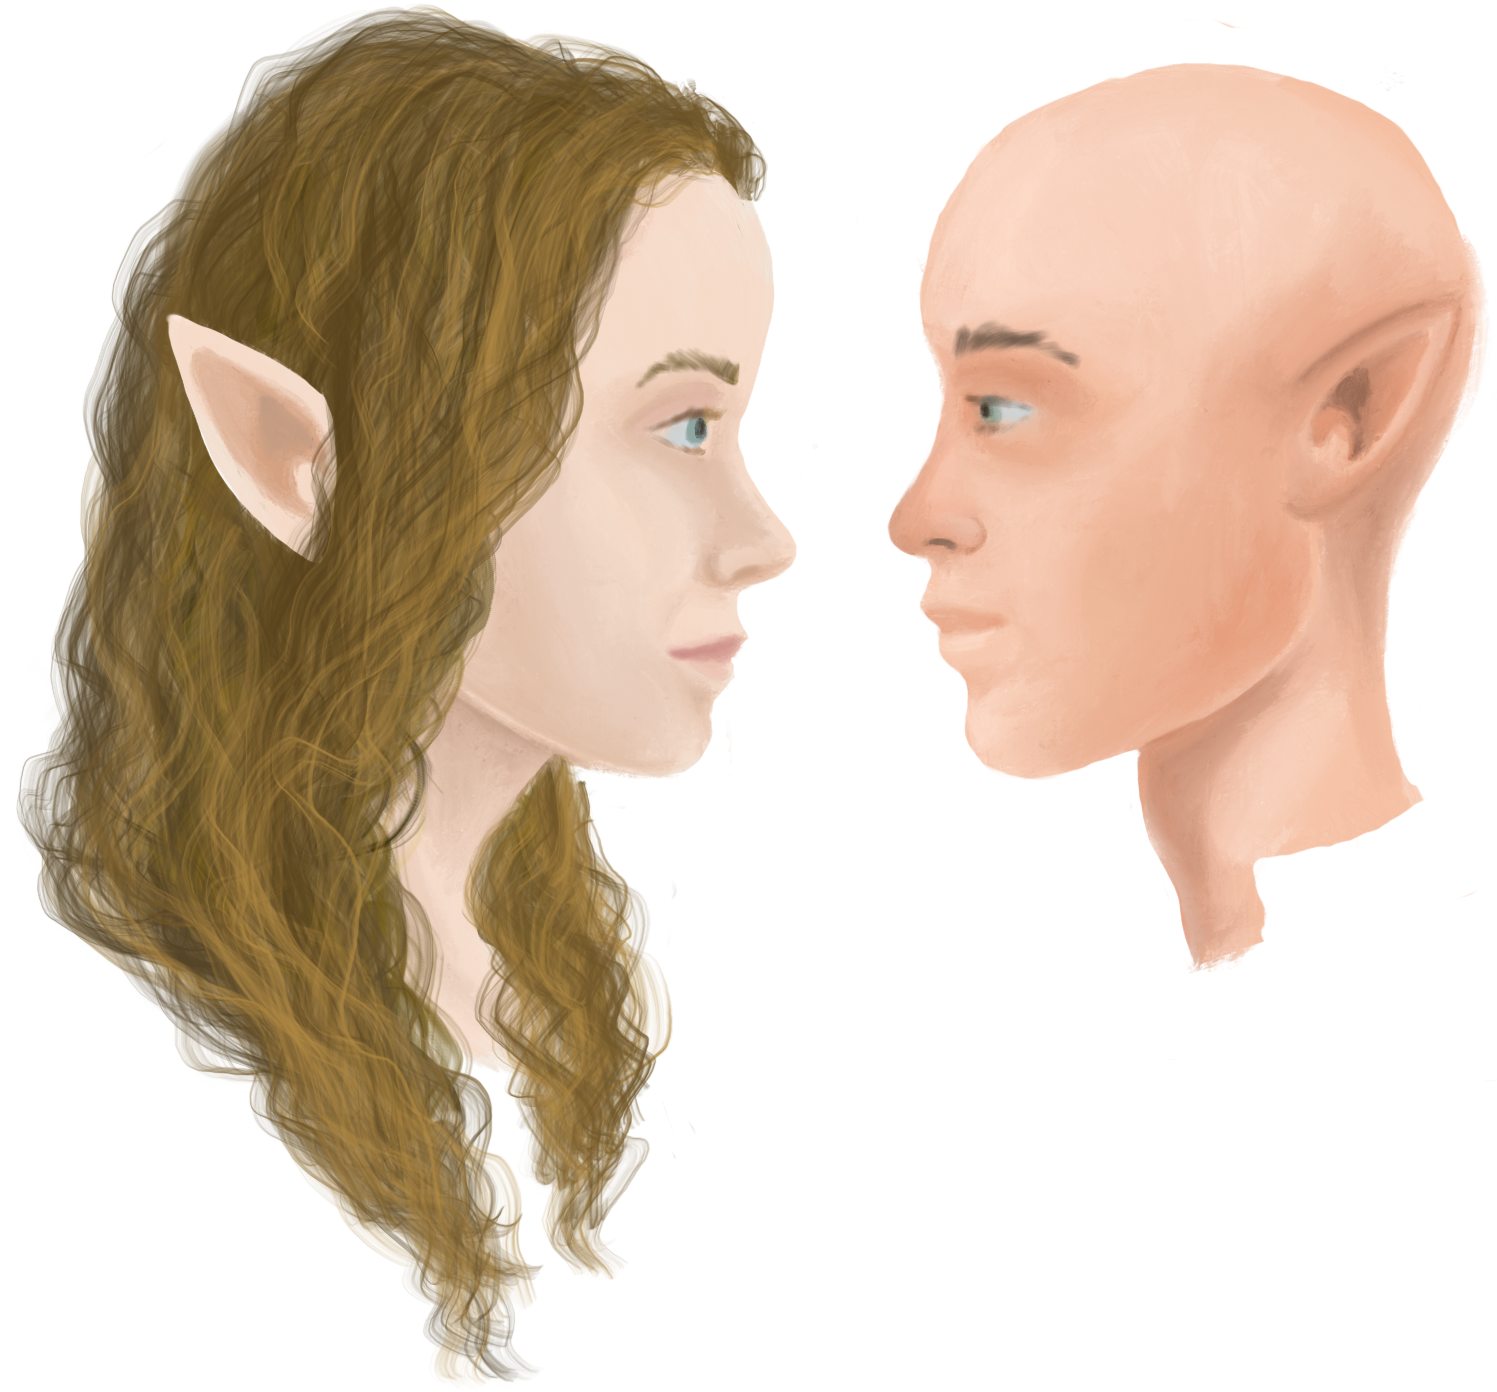
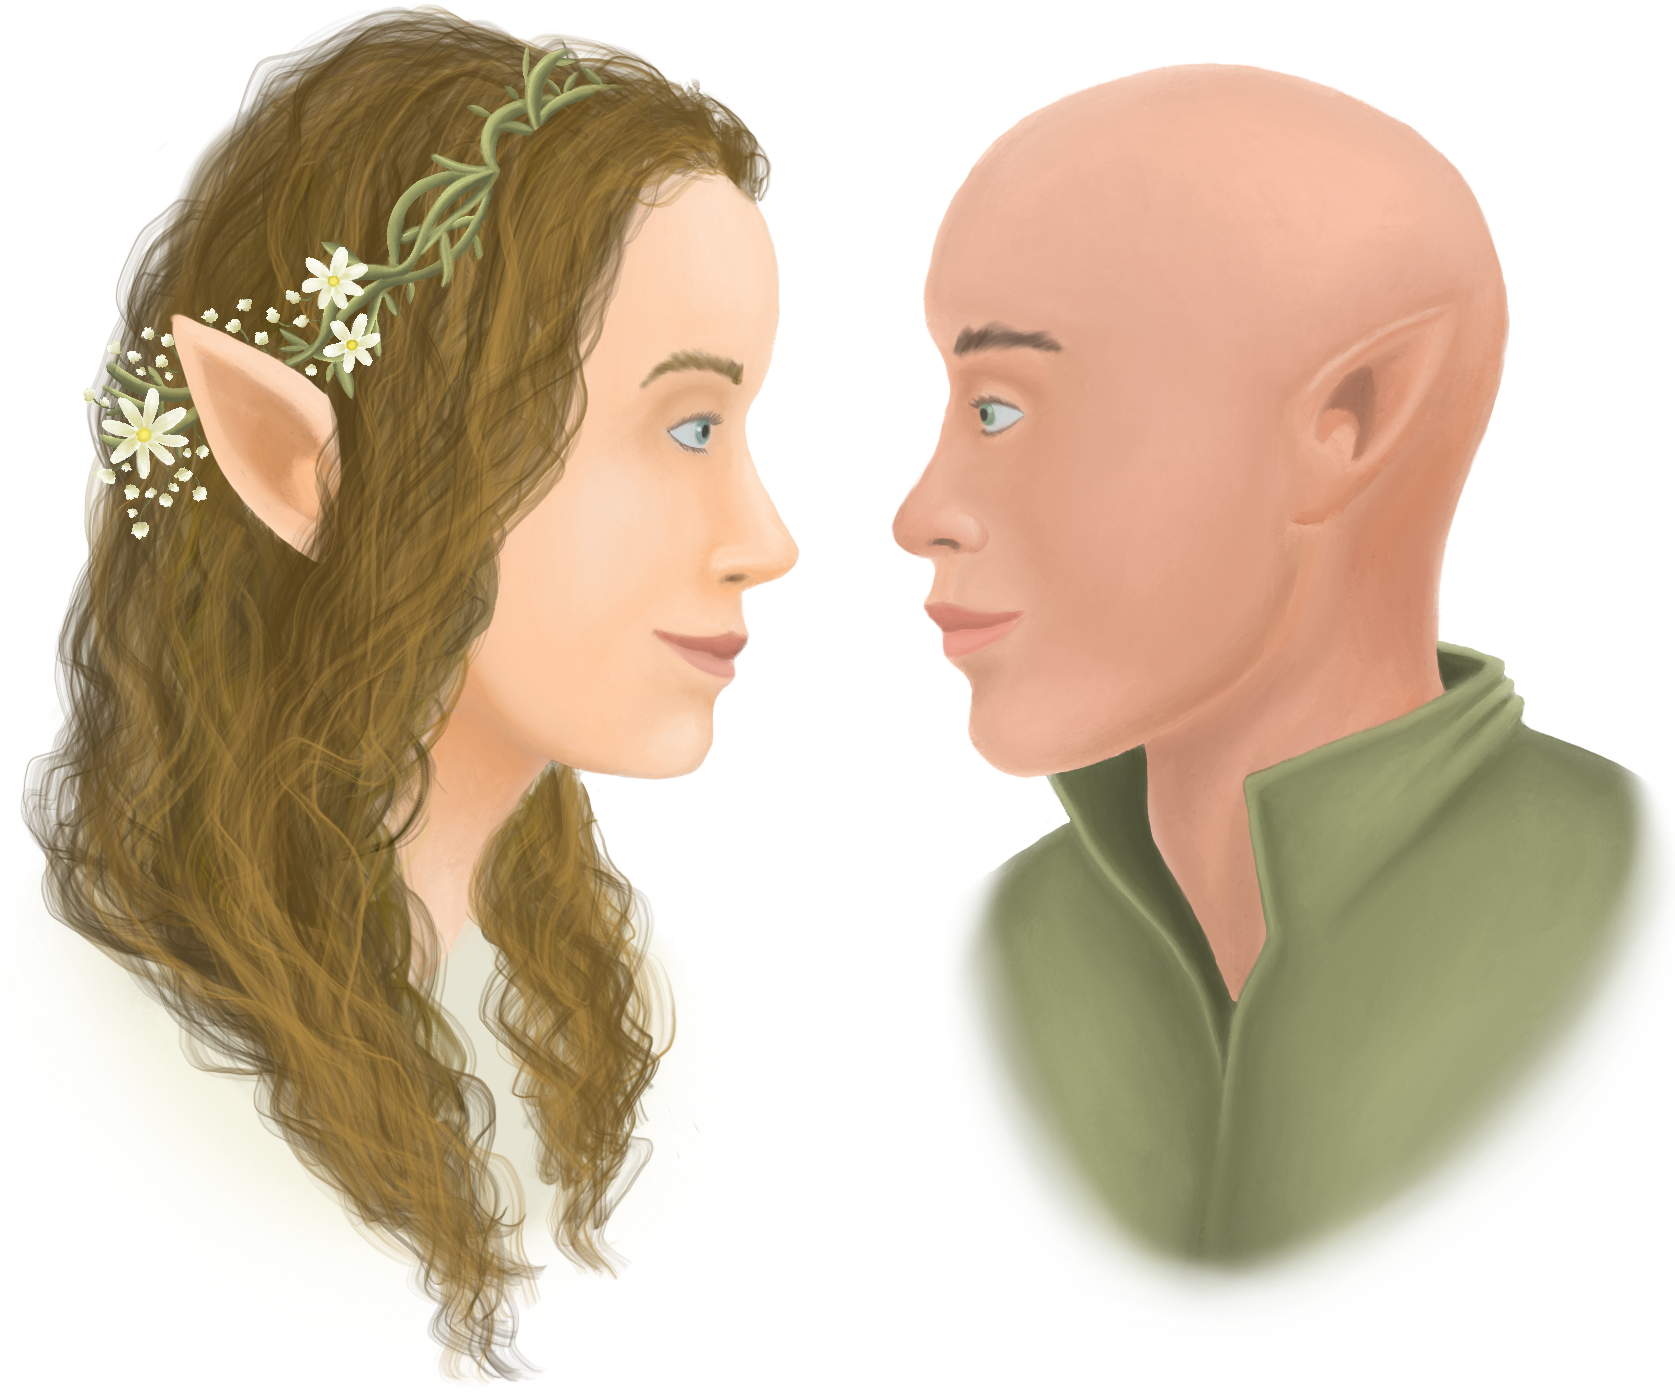
Replace image and fix spacings

diff --git a/our-story.html b/our-story.html
@@ -6,6 +6,9 @@
   <title>Fernanda & Samuel</title>
   <link rel="stylesheet" href="styles.css" />
   <link href="https://fonts.googleapis.com/css2?family=Crimson+Pro:wght@400;700&display=swap" rel="stylesheet">
+  <link rel="preconnect" href="https://fonts.googleapis.com">
+  <link rel="preconnect" href="https://fonts.gstatic.com" crossorigin>
+  <link href="https://fonts.googleapis.com/css2?family=Lavishly+Yours&display=swap" rel="stylesheet"> 
 </head>
 <body>
   <header>
@@ -35,18 +38,18 @@
   <main>
     <section>
       <img src="images/us.png" alt="Nós" class="main-image" />
-      <h2 style="text-align: center; font-family: ElvenCommonSpeak;">Prefiro compartilhar uma unica vida ao seu lado do que enfrentar todas as eras deste mundo sozinho</h2>
+      <h2 style="text-align: center; font-family: Lavishly Yours; font-size: 2rem; line-height: 1; margin-top: 2rem;">"Prefiro compartilhar uma única vida ao seu lado do que enfrentar todas as eras deste mundo sozinho."</h2>
     </section>
     <section>
-      <p style="text-align: center; max-width: 800px; margin: 0 auto;" class="starting-text">
-        Nos conhecemos nas aulas de alemão da faculdade, e desde o início sabíamos que algo especial estava acontecendo. De momentos simples a aventuras incríveis, aqui estão os marcos que definiram a nossa história.
+      <p style="text-align: center; max-width: 800px; margin: 2em auto;" class="starting-text">
+        Nos conhecemos nas aulas de alemão da faculdade, e desde o início sabíamos que algo especial estava acontecendo. De momentos simples a aventuras incríveis, aqui estão alguns dos marcos que definiram a nossa história.
       </p>
       <div class="milestone-timeline">
         <div class="milestone">
           <img src="images/ccbb.jpg" alt="Primeiro Encontro" class="milestone-image">
           <div class="milestone-content">
             <h3>Primeiro Encontro</h3>
-            <p class="starting-text">Nosso primeiro encontro foi no CCBB, mesmo que a Fernanda não tenha reconhecido como um encontro, na época.</p>
+            <p class="milestone-text">Nosso primeiro encontro foi no CCBB, mesmo que a Fernanda não tenha reconhecido como um encontro na época.</p>
             <p><strong>Data:</strong> 20 de Maio de 2017</p>
           </div>
         </div>
@@ -54,7 +57,7 @@
           <img src="images/namoro.jpg" alt="Pedido de Namoro" class="milestone-image">
           <div class="milestone-content">
             <h3>Pedido de Namoro</h3>
-            <p class="starting-text">Começamos a namorar em São Paulo, onde, coincidentemente, estávamos viajando por motivos diferentes.</p>
+            <p class="milestone-text">Começamos a namorar em São Paulo, onde, coincidentemente, estávamos viajando por motivos diferentes.</p>
             <p><strong>Data:</strong> 20 de Outubro de 2017</p>
           </div>
         </div>
@@ -62,7 +65,7 @@
           <img src="images/buenos-aires.jpg" alt="Primeira Viagem" class="milestone-image">
           <div class="milestone-content">
             <h3>Primeira Viagem</h3>
-            <p class="starting-text">Nossa primeira viagem foi para Buenos Aires, onde vivemos momentos inesquecíveis que fortaleceram ainda mais nossa conexão.</p>
+            <p class="milestone-text">Nossa primeira viagem foi para Buenos Aires, onde vivemos momentos inesquecíveis que fortaleceram ainda mais nossa conexão.</p>
             <p><strong>Data:</strong> Abril de 2019</p>
           </div>
         </div>
@@ -70,7 +73,7 @@
           <img src="images/floripa.png" alt="Florianópolis" class="milestone-image">
           <div class="milestone-content">
             <h3>Morando Juntos por 1 Mês</h3>
-            <p class="starting-text">Decidimos passar 1 mês em Florianópolis, nossa primeira experiência de longa duração juntos. Não precisamos dizer que deu certo, né?</p>
+            <p class="milestone-text">Decidimos passar 1 mês em Florianópolis, nossa primeira experiência de longa duração juntos. Não precisamos dizer que deu certo, né?</p>
             <p><strong>Data:</strong> Outubro de 2021</p>
           </div>
         </div>
@@ -78,7 +81,7 @@
           <img src="images/lofts.png" alt="Lofts" class="milestone-image">
           <div class="milestone-content">
             <h3>Mudança definitiva</h3>
-            <p class="starting-text">Saímos do ninho de nossos pais para trilhar nossa própria jornada juntos, todos os dias, sob sol ou chuva.</p>
+            <p class="milestone-text">Saímos do ninho de nossos pais para trilhar nossa própria jornada juntos, todos os dias, sob sol ou chuva.</p>
             <p><strong>Data:</strong> Janeiro de 2023</p>
           </div>
         </div>
@@ -86,7 +89,7 @@
           <img src="images/noivado.jpg" alt="Pedido de Casamento" class="milestone-image">
           <div class="milestone-content">
             <h3>Pedido de Casamento</h3>
-            <p class="starting-text">O momento mágico em que decidimos passar o resto de nossas vidas juntos. Exatamente 7 anos após começarmos a namorar.</p>
+            <p class="milestone-text">O momento mágico em que decidimos passar o resto de nossas vidas juntos. Exatamente 7 anos após começarmos a namorar.</p>
             <p><strong>Data:</strong> 20 de Outubro de 2024</p>
           </div>
         </div>
@@ -94,7 +97,7 @@
           <img src="images/preparativos.png" alt="Preparativos para o Grande Dia" class="milestone-image">
           <div class="milestone-content">
             <h3>Preparativos para o Grande Dia</h3>
-            <p class="starting-text">Juntos, planejamos cada detalhe deste dia tão especial para compartilhar com as pessoas mais importantes de nossas vidas.</p>
+            <p class="milestone-text">Juntos, planejamos cada detalhe deste dia tão especial para compartilhar com as pessoas mais importantes de nossas vidas.</p>
             <p><strong>Data:</strong> 17 de Agosto de 2025</p>
           </div>
         </div>

diff --git a/presentes.html b/presentes.html
@@ -41,56 +41,56 @@
         <h3 class="gift-title">Equipamentos de trilha para aventuras</h3>
         <p class="gift-text"><strong>Unidades restantes:</strong> 6/6</p>
         <p class="gift-text"><strong>Valor:</strong> R$ 90,00</p>
-        <a href="https://example.com/gift1" target="_blank" class="gift-button">Contribuir</a>
+        <a href="https://example.com/gift1" target="_blank" class="gift-button">Presentear</a>
       </div>
       <div class="gift-item">
         <img src="images/gift-passagens.png" alt="Gift 3" class="gift-image">
         <h3 class="gift-title">Passagens de dragão para a Lua de Mel</h3>
-        <p class="gift-text"><strong>Unidades restantes:</strong> 10</p>
+        <p class="gift-text"><strong>Unidades restantes:</strong> 10/10</p>
         <p class="gift-text"><strong>Valor:</strong> R$ 500,00</p>
-        <a href="https://example.com/gift3" target="_blank" class="gift-button">Contribuir</a>
+        <a href="https://example.com/gift3" target="_blank" class="gift-button">Presentear</a>
       </div>
       <div class="gift-item">
         <img src="images/gift-jantar.png" alt="Gift 5" class="gift-image">
         <h3 class="gift-title">Jantar em Lothlórien</h3>
-        <p class="gift-text"><strong>Unidades restantes:</strong> 4</p>
+        <p class="gift-text"><strong>Unidades restantes:</strong> 4/4</p>
         <p class="gift-text"><strong>Valor:</strong> R$ 250,00</p>
-        <a href="https://example.com/gift4" target="_blank" class="gift-button">Contribuir</a>
+        <a href="https://example.com/gift4" target="_blank" class="gift-button">Presentear</a>
       </div>
       <div class="gift-item">
         <img src="images/gift-estalagem.png" alt="Gift 6" class="gift-image">
         <h3 class="gift-title">Noites na estalagem Prancing Pony</h3>
-        <p class="gift-text"><strong>Unidades restantes:</strong> 8</p>
+        <p class="gift-text"><strong>Unidades restantes:</strong> 8/8</p>
         <p class="gift-text"><strong>Valor:</strong> R$ 300,00</p>
-        <a href="https://example.com/gift4" target="_blank" class="gift-button">Contribuir</a>
+        <a href="https://example.com/gift4" target="_blank" class="gift-button">Presentear</a>
       </div>
       <div class="gift-item">
         <img src="images/gift-cavalo.png" alt="Gift 6" class="gift-image">
         <h3 class="gift-title">Diárias de cavalo de Rohan para aventuras longínquas</h3>
-        <p class="gift-text"><strong>Unidades restantes:</strong> 8</p>
+        <p class="gift-text"><strong>Unidades restantes:</strong> 8/8</p>
         <p class="gift-text"><strong>Valor:</strong> R$ 300,00</p>
-        <a href="https://example.com/gift4" target="_blank" class="gift-button">Contribuir</a>
+        <a href="https://example.com/gift4" target="_blank" class="gift-button">Presentear</a>
       </div>
       <div class="gift-item">
         <img src="images/gift-filhos.png" alt="Gift 2" class="gift-image">
         <h3 class="gift-title">Permissão para perguntar quando vêm os filhos</h3>
-        <p class="gift-text"><strong>Unidades restantes:</strong> 2</p>
+        <p class="gift-text"><strong>Unidades restantes:</strong> 2/2</p>
         <p class="gift-text"><strong>Valor:</strong> R$ 2.500,00</p>
-        <a href="https://example.com/gift2" target="_blank" class="gift-button">Contribuir</a>
+        <a href="https://example.com/gift2" target="_blank" class="gift-button">Presentear</a>
       </div>
       <div class="gift-item">
         <img src="images/gift-massagem.png" alt="Gift 4" class="gift-image">
         <h3 class="gift-title">Dia de massagem para os noivos</h3>
-        <p class="gift-text"><strong>Unidades restantes:</strong> 4</p>
+        <p class="gift-text"><strong>Unidades restantes:</strong> 4/4</p>
         <p class="gift-text"><strong>Valor:</strong> R$ 150,00</p>
-        <a href="https://example.com/gift4" target="_blank" class="gift-button">Contribuir</a>
+        <a href="https://example.com/gift4" target="_blank" class="gift-button">Presentear</a>
       </div>
       <div class="gift-item">
         <img src="images/gift-redecorar.png" alt="Gift 6" class="gift-image">
         <h3 class="gift-title">Renovar decoração da nossa toca Hobbit </h3>
-        <p class="gift-text"><strong>Unidades restantes:</strong> 5</p>
+        <p class="gift-text"><strong>Unidades restantes:</strong> 5/5</p>
         <p class="gift-text"><strong>Valor:</strong> R$ 150,00</p>
-        <a href="https://example.com/gift4" target="_blank" class="gift-button">Contribuir</a>
+        <a href="https://example.com/gift4" target="_blank" class="gift-button">Presentear</a>
       </div>
     </section>
   </main>

diff --git a/index.html b/index.html
@@ -6,6 +6,9 @@
   <title>Fernanda & Samuel</title>
   <link rel="stylesheet" href="styles.css" />
   <link href="https://fonts.googleapis.com/css2?family=Crimson+Pro:wght@400;700&display=swap" rel="stylesheet">
+  <link rel="preconnect" href="https://fonts.googleapis.com">
+  <link rel="preconnect" href="https://fonts.gstatic.com" crossorigin>
+  <link href="https://fonts.googleapis.com/css2?family=Lavishly+Yours&display=swap" rel="stylesheet">
 </head>
 <body>
   <header>
@@ -35,10 +38,12 @@
   <main>
     <section>
         <img src="images/us.png" alt="Nós" class="main-image" />
-    <h2 style="text-align: center;  font-family: ElvenCommonSpeak">Prefiro compartilhar uma unica vida ao seu lado do que enfrentar todas as eras deste mundo sozinho</h2>
-    <p class="starting-text">Assim como na Terra Média, grandes aventuras são feitas ao lado daqueles que mais amamos. Estamos muito felizes em compartilhar essa jornada com você!</p>
-    <p class="starting-text">Aqui, você encontrará todas as informações sobre a nossa cerimônia, a festa e como se preparar para esse dia mágico e único.</p>
-    <p class="starting-text">Se você deseja nos presentear, por favor, acesse a página de <a href="presentes.html">presentes</a> para mais informações.</p>
+      <h2 style="text-align: center; font-family: Lavishly Yours; font-size: 2rem; line-height: 1; margin-top: 2rem;">"Prefiro compartilhar uma única vida ao seu lado do que enfrentar todas as eras deste mundo sozinho."</h2>
+    <div style="margin-top: 4em; margin-bottom: 4em;">
+        <p style="text-align: center; max-width: 800px;" class="starting-text">Assim como na Terra Média, grandes aventuras são feitas ao lado daqueles que mais amamos. Estamos muito felizes em compartilhar essa jornada com você!</p>
+        <p style="text-align: center; max-width: 800px;" class="starting-text">Aqui, você encontrará todas as informações sobre a nossa cerimônia, a festa e como se preparar para esse dia mágico e único.</p>
+        <p style="text-align: center; max-width: 800px;" class="starting-text">Se você deseja nos presentear, por favor, acesse a página de <a href="presentes.html">presentes</a> para mais informações.</p>
+    </div>
     </section>
     <section>
         <h2 style="text-align: center;">Data e Local</h2>
@@ -47,7 +52,7 @@
         <p style="text-align: center;">Por favor, confirme sua presença acessando a página de <a href="https://safehome.notion.site/56d33904cdcb4c65b70341a3e3cd2aa2" target="_blank">confirmação</a>.</p>
     </section>
     <section>
-        <h2 style="text-align: center;">Programa</h2>
+        <h2 style="text-align: center; margin-top: 4rem;">Programa</h2>
         <div style="max-width: 600px; margin: 0 auto;">
             <table style="width: 100%; border-collapse: collapse; text-align: left;">
                 <thead>

diff --git a/styles.css b/styles.css
@@ -7,10 +7,6 @@
   font-family: 'PartyBusiness';
   src: url('fonts/PartyBusiness-4B0K.ttf') format('truetype');
 }
-@font-face {
-  font-family: 'ElvenCommonSpeak';
-  src: url('fonts/Elvencommonspeak-0WXz.ttf') format('truetype');
-}
 /* ========================= RESET & GLOBAL ========================= */
 * {
   margin: 0;
@@ -123,6 +119,11 @@ p {
   padding: 0 10em;
   font-size: 1.2em;
 }
+.milestone-text {
+  margin: 1em;
+  padding: 0 15em;
+  font-size: 1.2em;
+}
 .finishing-text {
   margin: 3em;
   padding: 0 10em;
@@ -155,12 +156,13 @@ button {
   flex-direction: column;
   align-items: center;
   text-align: center;
+  margin-bottom: 3rem;
 }
 
 /* Milestone Image */
 .milestone-image {
   width: 100%;
-  max-width: 500px;
+  max-width: 400px;
   height: auto;
   border-radius: 10px;
   margin-bottom: 1rem;
@@ -227,7 +229,7 @@ button {
 }
 
 /* ========================= MEDIA QUERIES ========================= */
-@media (max-width: 768px) {
+@media (max-width: 1024px) {
   body {
       padding: 0 0rem;
  }
@@ -268,7 +270,12 @@ button {
  }
   .starting-text {
       margin: 1em;
-      padding: 0 0em;
+      padding: 0 2em;
+      font-size: 1.2em;
+ }
+  .milestone-text {
+      margin: 1em;
+      padding: 0 2em;
       font-size: 1.2em;
  }
   .finishing-text {
